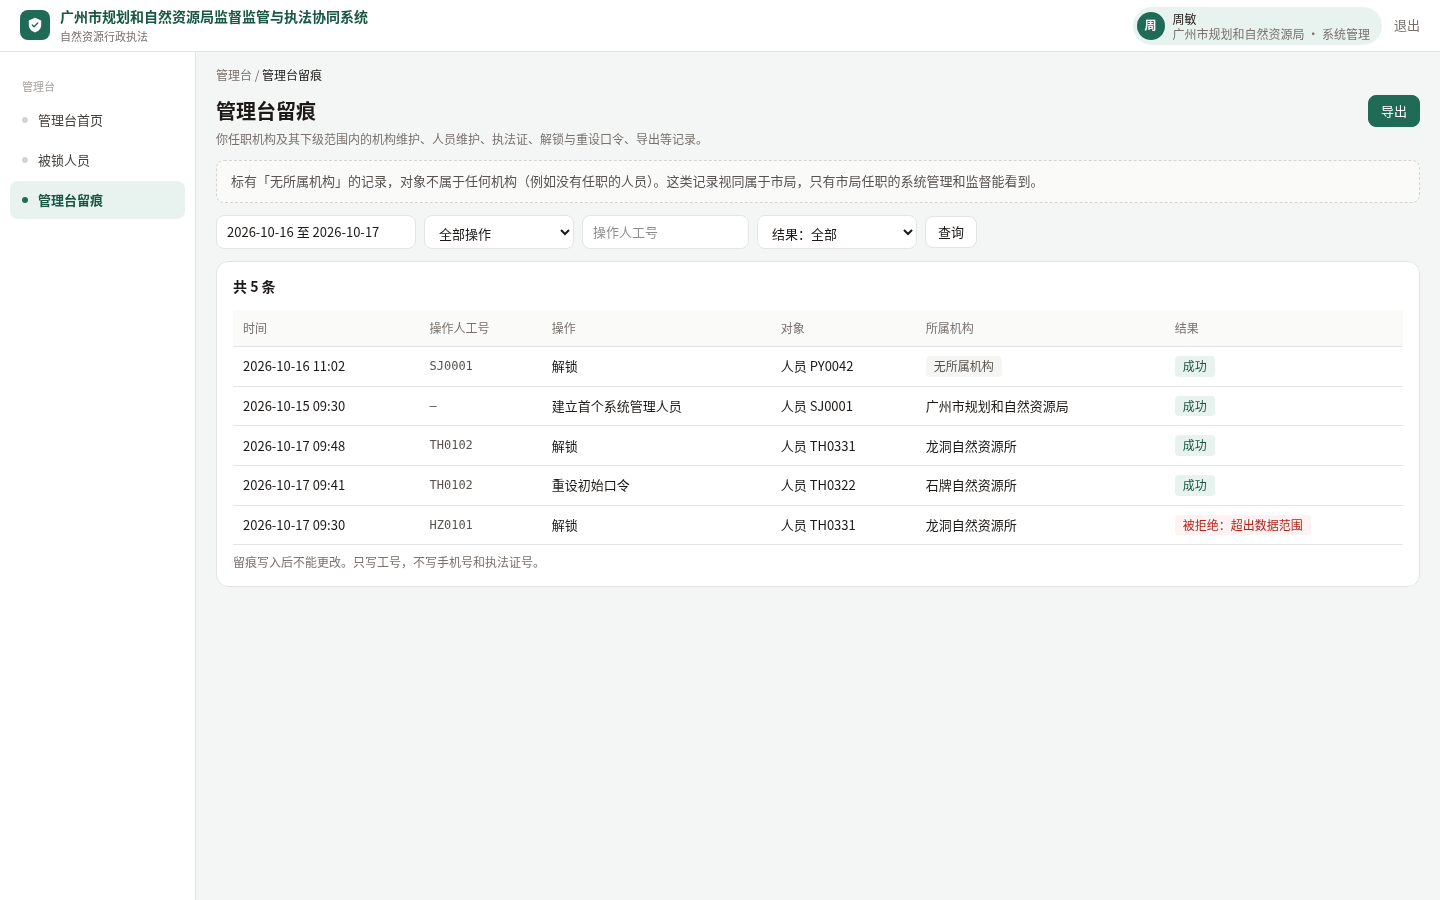
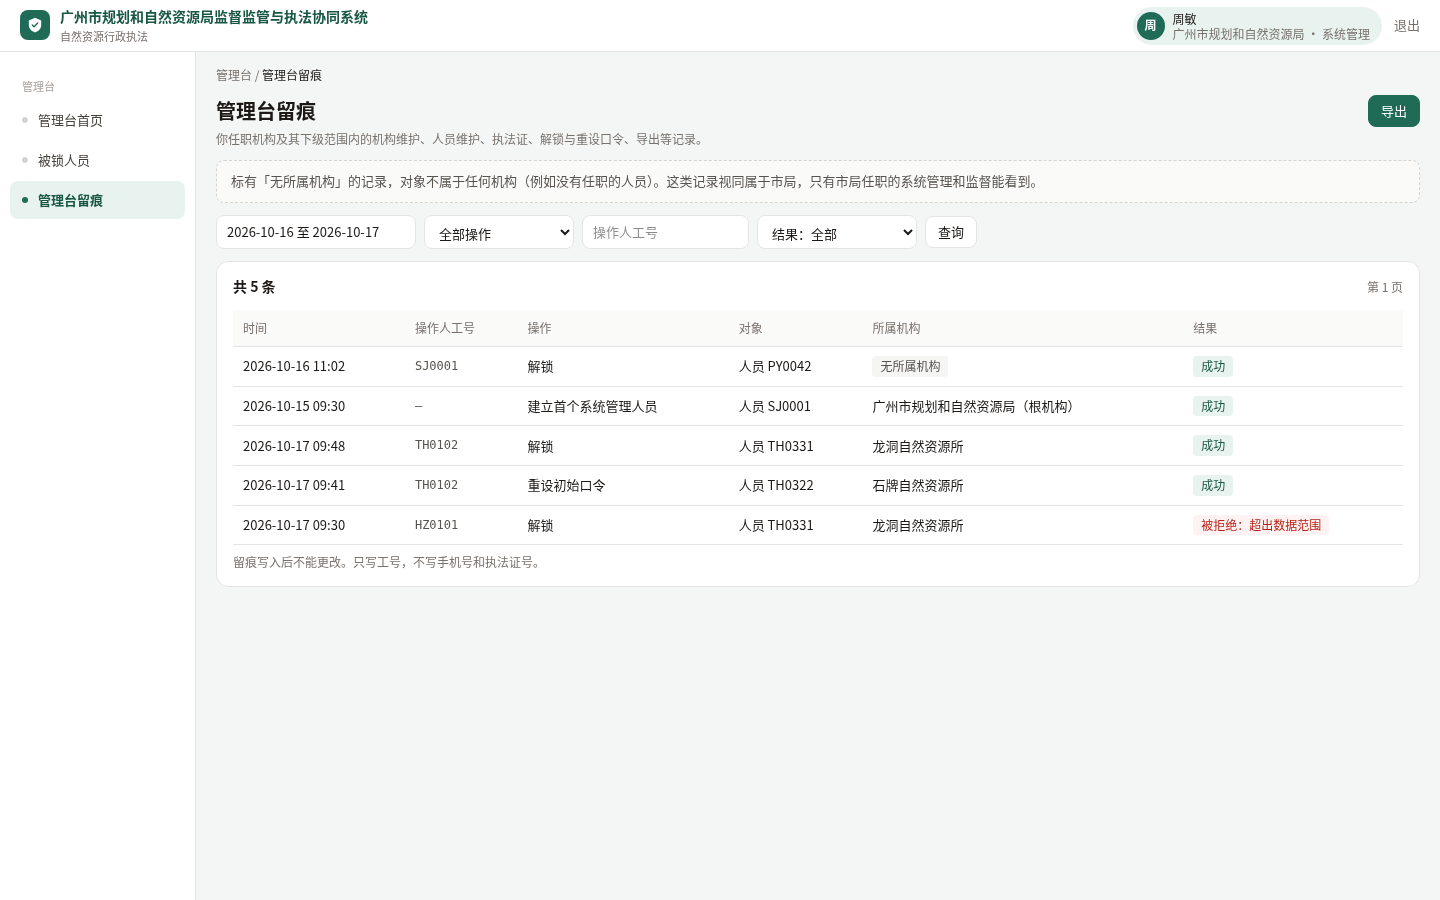
docs:2026-10-18-03-15||重截管理台留痕受影响的五张图，差异表去掉三条，原型外的句子逐条标工程稿

diff --git a/docs/screens/126/README.md b/docs/screens/126/README.md
@@ -6,7 +6,7 @@
 - 截法：
   - 前端 `vite build` 的产物由 box 上的模拟服务托管（工具不入仓，做法同 docs/screens/122）。
   - 会话操作码由仓库名册和参照种子推出（系统管理、监督、经办），不手写。
-  - 留痕接口按状态返回原型里的同一批行（R / LG / VW / NA）。动作名和「对象」列按本票服务端 audit-labels.ts 的实际输出。
+  - 留痕接口按状态返回原型里的同一批行（R / LG / VW / NA）。动作名、「对象」列和「所属机构」列（含「（根机构）」）按本票服务端 audit-labels.ts 的实际输出。
   - 浏览器 1440×900 整页截图。exportConfirm 点「导出」后截；exportDone 再点「确认导出」后截。导出时浏览器实际下载到的文件名是「管理台留痕_20261016-20261017.xlsx」。
 
 ## 允许的差异
@@ -15,9 +15,34 @@
 | --- | --- | --- |
 | 全部 | 实现没有顶部「样板状态」演示条 | 演示条只用于原型切换状态（#122 已约定不进正式界面） |
 | 系统管理各态 | 左侧菜单只有「管理台首页 / 被锁人员 / 管理台留痕」 | 菜单按真实会话清单裁剪（#122）；机构、人员的码由 #123、#128 授予后才出现 |
-| admin、login、view、noanchor、exportConfirm、exportDone | 「共 N 条」写的是实际行数，没有「第 1 页」 | 本票一次列出所选时间内的全部行，不分页（PR「工程决定」）；原型的 73、75 是示意数字 |
-| admin、exportConfirm、exportDone | 列表里有「无所属机构」的行时，表格上方同时出「标有『无所属机构』的记录……」说明 | 原型只在 noanchor 态放这条说明；实现只要列表里有这类行就给说明，免得看到标记不知含义 |
+| admin、noanchor、exportConfirm、exportDone | 「共 N 条」写的是截图数据的实际行数 | 原型的 73、75 是示意数字；「第 1 页」按原型保留（本票一次列出全部行，只有一页） |
 | exportConfirm | 「条数」是当前列表的行数（截图里 12 条） | 原型示意 46 条 |
 | exportDone | 完成横幅里的条数取服务端实际导出的条数（响应头 X-Item-Count） | 导出时取数与写留痕同一事务，条数以服务端为准 |
-| noanchor | 「建立首个系统管理人员」一行的所属机构显示根机构名称，不加「（根机构）」 | 所属机构列一律显示机构名称 |
-| 筛选条 | 「结果」下拉有「全部 / 成功 / 失败或被拒绝」三项 | 原型只画了「结果：全部」，没有列出选项 |
+| error | 「导出」按钮是灰的，不能点 | 列表没取到时不知道范围和条数，导出确认框无从填写；原型里可以点。待 Lei Hu 在 gate② 点名 |
+
+下面三条已按前端验收（PR #143 评论 6238968645「必须改 3」）改回原型，不再是差异：
+
+- noanchor：「建立首个系统管理人员」一行的所属机构写「名称（根机构）」（G34）。原型写「市局（根机构）」，「市局」是原型里根机构的简称，实现写根机构的实际名称。
+- 「无所属机构」说明条只在列表里有「对象不属于任何机构」的行时出现（原型 noanchor 态）。只有未对上人员的登录失败行时不出（原型 admin、login 两态）。
+- 系统管理视角未选类别时，列表标题旁写「第 1 页」；选了类别写类别说明；监督视角不写（同原型 supervise 态）。
+
+## 原型里没有的句子（工程稿，随 v0.5 定稿）
+
+以下文字原型 v0.4 P8 没有画到，全部是工程稿，随 v0.5 定稿。
+
+| 位置 | 文字 |
+| --- | --- |
+| 筛选不合规（`frontend/src/admin/audit.ts` RULE_MESSAGES） | 「筛选条件填写不对：时间范围请按「2026-10-16 至 2026-10-17」的样子填写，起日不晚于止日；操作人工号不超过 64 个字。」 |
+| 筛选不合规的兜底（`AuditPage.tsx` ruleText） | 「筛选条件填写不对，请检查后再查。」 |
+| 导出失败（`AuditPage.tsx`） | 「导出没有完成：你没有导出这一范围留痕的权限。如工作需要，请联系本单位的系统管理人员调整角色。」「导出没有完成：」加筛选不合规的句子；「导出没有完成：网络或服务暂时不可用，请稍后重试。」 |
+| 导出确认框按钮（导出进行中） | 「正在导出…」 |
+| 结果下拉 | 「结果：成功」「结果：失败或被拒绝」（原型只画了「结果：全部」） |
+| 操作列（`backend/server/src/audit-labels.ts`） | 修改口令、导出人员、人员改名、变更手机号、授予角色、摘除角色、调岗、恢复人员、结束全部会话、加岗位标记、摘岗位标记、新建下级机构、建立根机构、查阅管理台留痕、查看被锁人员、查看人员、维护机构或人员、查看机构 |
+| 操作列兜底：对照表里没有的操作 | 其他操作 |
+| 结果列：拒绝原因 | 被拒绝：没有权限、被拒绝：身份无效、被拒绝：未登录、被拒绝：人员已停用 |
+| 结果列：登录失败原因 | 失败：已锁定、失败：人员已停用、失败：口令已到期、失败：须先修改口令、失败：来源受限、失败：同时在线已满 |
+| 结果列：会话结束原因 | 主动退出、超过会话最长时间、在别处登录后结束、人员停用后结束、「记住我」凭据被重复使用后结束 |
+| 结果列兜底：对照表里没有的原因 | 失败、被拒绝、结束会话（只写这几个字，不写原因码） |
+| 对象列 | 管理台留痕（查阅、导出管理台留痕的行）、人员（查不到工号时）、机构（查不到机构名称时） |
+
+页面和导出文件都不出现操作码、动作原文和原因码：动作原文只放在表格行的 `data-action` 上（P8:9）。服务端单测、接口集成测试、前端单测都断言了这一点。
